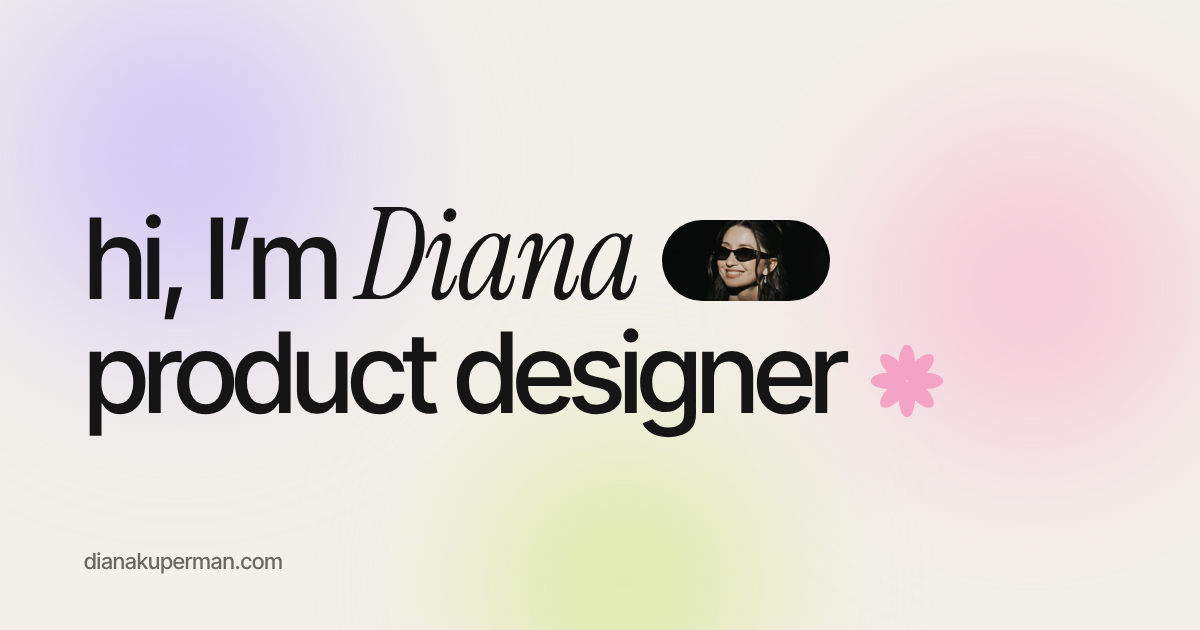
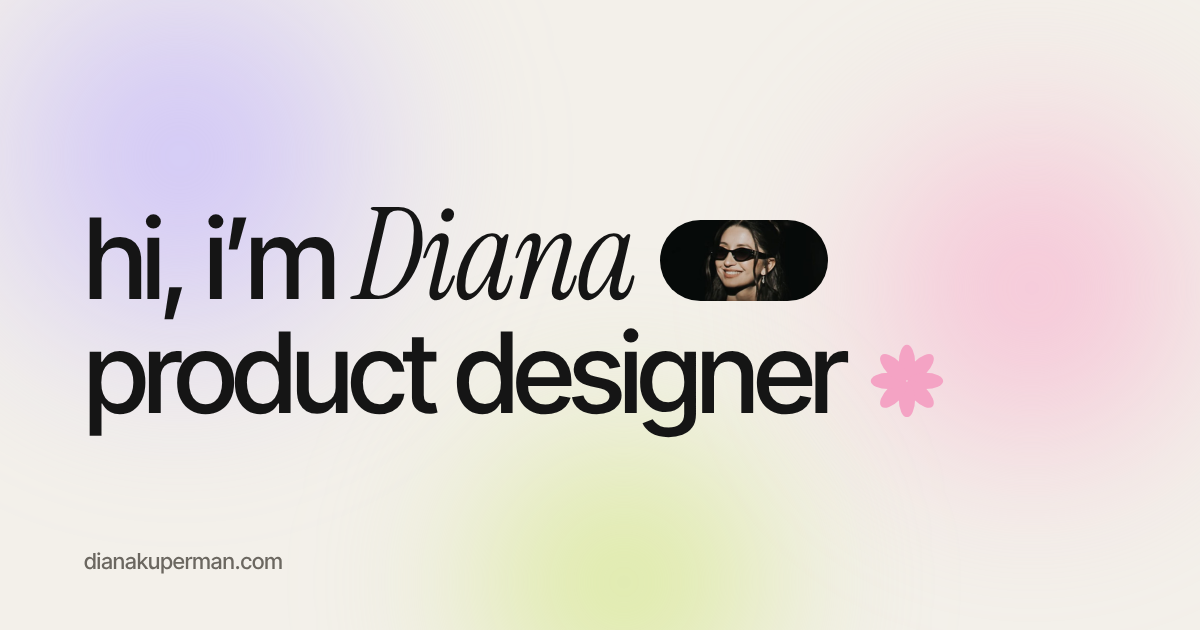
Hero: lowercase i'm (page + link preview image)
Claude-Session: https://claude.ai/code/session_01AeEjuNiLWNHrV1PEirV1dn

Changed region(s): [[0.1542, 0.3317, 0.555, 0.4825], [0.5858, 0.3619, 0.6475, 0.4825]]

diff --git a/index.html b/index.html
@@ -7,7 +7,7 @@
   <meta name="description" content="Diana Kuperman is a product designer who turns complex, sensitive systems into products people trust." />
   <meta property="og:title" content="Diana Kuperman — Product Designer" />
   <meta property="og:description" content="Product design for complex, sensitive systems, made simple enough to trust." />
-  <meta property="og:image" content="https://dianakuperman.com/assets/og.png?v=2" />
+  <meta property="og:image" content="https://dianakuperman.com/assets/og.png?v=3" />
   <meta property="og:image:width" content="1200" />
   <meta property="og:image:height" content="630" />
   <meta property="og:url" content="https://dianakuperman.com/" />
@@ -219,7 +219,7 @@
 
       <div class="hero-title reveal">
         <h1 class="hero-h1">
-          hi, I&rsquo;m <br class="m-br" /><span class="nw"><em>Diana</em> <span class="pill pill--photo"><img src="assets/diana-pill.jpg" alt="" /></span></span><br />
+          hi, i&rsquo;m <br class="m-br" /><span class="nw"><em>Diana</em> <span class="pill pill--photo"><img src="assets/diana-pill.jpg" alt="" /></span></span><br />
           product <br class="m-br" /><span class="nw">designer <svg class="glyph spin-rev" style="color:#f4a3c4"><use href="#g-petals"/></svg></span>
         </h1>
       </div>
